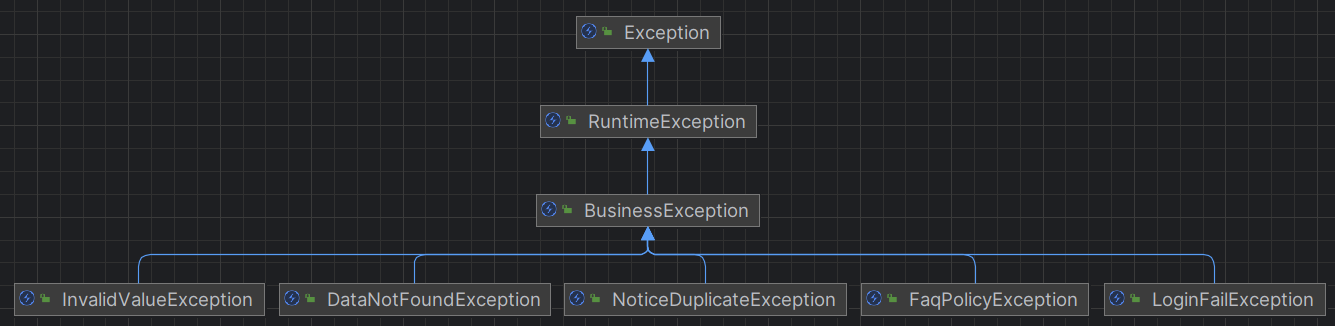
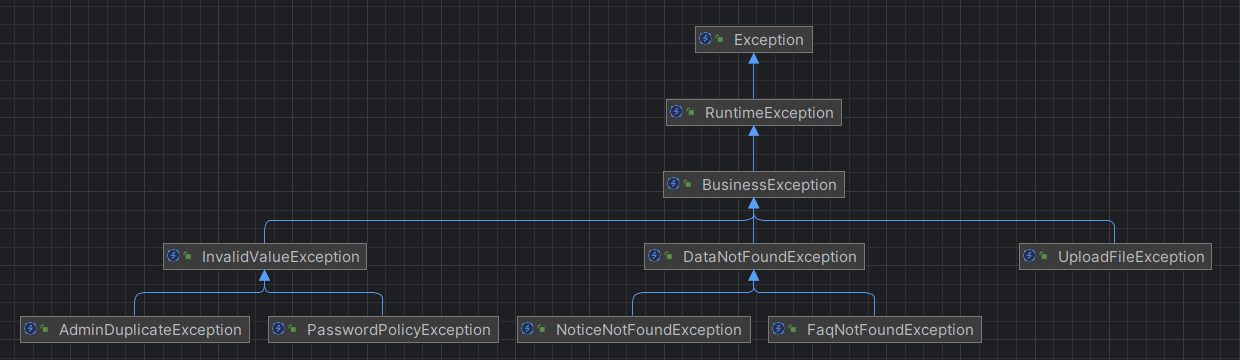
refactor: 예외 처리 핸들러 api/view 분리, 예외 클래스 구조 개선

diff --git a/src/main/resources/static/js/customer/notice-editForm.js b/src/main/resources/static/js/customer/notice-editForm.js
@@ -67,7 +67,7 @@ const NoticeEditFormModule = (function() {
         processData: false,
         success: function(response) {
           alert(response.message || '정상적으로 처리되었습니다.')
-          $('button[data-notice-no=' + noticeNo + ']').remove()
+          $('button[data-notice-file-no=' + noticeFileNo + ']').remove()
         },
         error: function(response) {
           if (response.responseJSON === undefined ||

diff --git a/src/main/java/com/example/demo/admin/global/util/FileUtil.java b/src/main/java/com/example/demo/admin/global/util/FileUtil.java
@@ -2,7 +2,7 @@ package com.example.demo.admin.global.util;
 
 import com.example.demo.admin.global.common.UploadFile;
 import com.example.demo.admin.global.common.define.FileUploadType;
-import com.example.demo.admin.global.error.exception.FileUploadException;
+import com.example.demo.admin.global.error.exception.UploadFileException;
 import org.springframework.web.multipart.MultipartFile;
 
 import java.io.*;
@@ -15,7 +15,7 @@ public class FileUtil {
      */
     public static List<UploadFile> uploadFiles(List<MultipartFile> uploadFiles, FileUploadType fileUploadType) {
         if (isEmpty(uploadFiles)) {
-            throw new FileUploadException("파일이 존재하지 않습니다.");
+            throw new UploadFileException("파일이 존재하지 않습니다.");
         }
 
         List<UploadFile> result = new ArrayList<>();
@@ -28,7 +28,7 @@ public class FileUtil {
                 createDirectory(fileUploadType.getFileDir());
                 uploadFile.transferTo(new File(storePath));
             } catch (IOException | IllegalStateException e) {
-                throw new FileUploadException(e);
+                throw new UploadFileException(e);
             }
 
             result.add(new UploadFile(originalFilename, storeFileName, storePath));
@@ -59,11 +59,11 @@ public class FileUtil {
             totalFileSize += uploadFile.getSize();
         }
         if (totalFileSize > fileUploadType.getMaxSize()) {
-            throw new FileUploadException("첨부 가능한 파일 용량을 초과했습니다.");
+            throw new UploadFileException("첨부 가능한 파일 용량을 초과했습니다.");
         }
         totalFileCount = uploadFiles.size();
         if (totalFileCount > fileUploadType.getMaxCount()) {
-            throw new FileUploadException("첨부 가능한 파일 개수를 초과했습니다.");
+            throw new UploadFileException("첨부 가능한 파일 개수를 초과했습니다.");
         }
     }
 
@@ -82,11 +82,11 @@ public class FileUtil {
                 totalFileSize += new File(fileUploadType.getStorePath(orgUploadedFile)).length();
             }
             if (totalFileSize > fileUploadType.getMaxSize()) {
-                throw new FileUploadException("첨부 가능한 파일 용량을 초과했습니다.");
+                throw new UploadFileException("첨부 가능한 파일 용량을 초과했습니다.");
             }
             totalFileCount = orgUploadedFiles.size();
             if (totalFileCount > fileUploadType.getMaxCount()) {
-                throw new FileUploadException("첨부 가능한 파일 개수를 초과했습니다.");
+                throw new UploadFileException("첨부 가능한 파일 개수를 초과했습니다.");
             }
         }
 
@@ -98,11 +98,11 @@ public class FileUtil {
             totalFileSize += uploadFile.getSize();
         }
         if (totalFileSize > fileUploadType.getMaxSize()) {
-            throw new FileUploadException("첨부 가능한 파일 용량을 초과했습니다.");
+            throw new UploadFileException("첨부 가능한 파일 용량을 초과했습니다.");
         }
         totalFileCount += uploadFiles.size();
         if (totalFileCount > fileUploadType.getMaxCount()) {
-            throw new FileUploadException("첨부 가능한 파일 개수를 초과했습니다.");
+            throw new UploadFileException("첨부 가능한 파일 개수를 초과했습니다.");
         }
     }
 
@@ -116,7 +116,7 @@ public class FileUtil {
                 return;
             }
         }
-        throw new FileUploadException("첨부 가능한 파일 확장자가 아닙니다.");
+        throw new UploadFileException("첨부 가능한 파일 확장자가 아닙니다.");
     }
 
     /**

diff --git a/src/main/java/com/example/demo/admin/global/error/ViewExceptionHandler.java b/src/main/java/com/example/demo/admin/global/error/ViewExceptionHandler.java
@@ -1,0 +1,35 @@
+package com.example.demo.admin.global.error;
+
+import com.example.demo.admin.global.error.exception.BusinessException;
+import lombok.extern.slf4j.Slf4j;
+import org.springframework.stereotype.Controller;
+import org.springframework.web.bind.annotation.ControllerAdvice;
+import org.springframework.web.bind.annotation.ExceptionHandler;
+import org.springframework.web.servlet.ModelAndView;
+
+/**
+ * HTML 화면 제공 처리 과정에서의 예외는 ViewExceptionHandler(@ControllerAdvice)에서 응답 처리한다.
+ * 단, ViewExceptionHandler 에서 다루지 않는 예외의 경우는 스프링 부트 기본 오류 처리 매커니즘(BasicErrorController)를 따른다.
+ *
+ * [참고]
+ * - ViewExceptionHandler 에서는 내부 비즈니스 예외 발생(BusinessException)의 경우에 한해서 정상적으로 응답 처리되도록 한다. 응답 처리 과정은 다음과 같다.
+ *  ㄴ 응답 처리: 내부 redirct 페이지로 이동하여 예외 메시지를 alert으로 출력 후, 메인 페이지로 이동한다.
+ */
+@Slf4j
+@ControllerAdvice(annotations = Controller.class)
+public class ViewExceptionHandler {
+
+    @ExceptionHandler(BusinessException.class)
+    protected ModelAndView handleBusinessException(BusinessException e) {
+        log.info("handleBusinessException", e);
+        return errorHtml(e.getMessage());
+    }
+
+    private ModelAndView errorHtml(String msg) {
+        ModelAndView mav = new ModelAndView();
+        mav.addObject("msg", msg);
+        mav.addObject("url", "/");
+        mav.setViewName("/common/redirect");
+        return mav;
+    }
+}

diff --git a/src/main/java/com/example/demo/admin/domain/customer/controller/NoticeController.java b/src/main/java/com/example/demo/admin/domain/customer/controller/NoticeController.java
@@ -12,7 +12,7 @@ import com.example.demo.admin.domain.customer.dto.NoticeSearchDto;
 import com.example.demo.admin.domain.customer.service.NoticeService;
 import com.example.demo.admin.domain.customer.validator.NoticeSearchValidator;
 import com.example.demo.admin.global.common.define.FileUploadType;
-import com.example.demo.admin.global.error.exception.FileUploadException;
+import com.example.demo.admin.global.error.exception.UploadFileException;
 import com.example.demo.admin.global.util.ErrorUtil;
 import com.example.demo.admin.global.common.PaginationDto;
 import lombok.RequiredArgsConstructor;
@@ -99,7 +99,7 @@ public class NoticeController {
             redirectAttributes.addAttribute("noticeNo", notice.getNoticeNo());
         } catch (NoticeDuplicateException ex) {
             bindingResult.addError(new FieldError("noticeAddDto", "title", noticeAddDto.getTitle(), false, null, null, ex.getMessage()));
-        } catch (FileUploadException ex) {
+        } catch (UploadFileException ex) {
             bindingResult.addError(new FieldError("noticeAddDto", "uploadFiles", ex.getMessage()));
         }
 
@@ -132,7 +132,7 @@ public class NoticeController {
             noticeService.update(noticeNo, noticeEditDto);
         } catch (NoticeDuplicateException ex) {
             bindingResult.addError(new FieldError("noticeEditDto", "title", noticeEditDto.getTitle(), false, null, null, ex.getMessage()));
-        } catch (FileUploadException ex) {
+        } catch (UploadFileException ex) {
             bindingResult.addError(new FieldError("noticeEditDto", "uploadFiles", ex.getMessage()));
         }
 

diff --git a/src/main/java/com/example/demo/admin/domain/customer/service/NoticeFileService.java b/src/main/java/com/example/demo/admin/domain/customer/service/NoticeFileService.java
@@ -1,11 +1,10 @@
 package com.example.demo.admin.domain.customer.service;
 
 import com.example.demo.admin.domain.customer.domain.NoticeFile;
-import com.example.demo.admin.domain.customer.exception.NoticeFileException;
+import com.example.demo.admin.domain.customer.exception.NoticeFileNotFoundException;
 import com.example.demo.admin.domain.customer.repository.NoticeFileRepository;
 import com.example.demo.admin.global.common.UploadFile;
 import com.example.demo.admin.global.common.define.FileUploadType;
-import com.example.demo.admin.global.error.exception.DataNotFoundException;
 import com.example.demo.admin.global.util.CommonUtil;
 import com.example.demo.admin.global.util.FileUtil;
 import lombok.RequiredArgsConstructor;
@@ -30,7 +29,7 @@ public class NoticeFileService {
         return findItems(noticeNo).stream()
                 .filter(s -> s.getNoticeFileNo().equals(noticeFileNo))
                 .findFirst()
-                .orElseThrow(DataNotFoundException::new);
+                .orElseThrow(NoticeFileNotFoundException::new);
     }
 
     public void saveFiles(Integer noticeNo, List<MultipartFile> uploadFiles) {
@@ -65,7 +64,7 @@ public class NoticeFileService {
             if (!CommonUtil.isEmpty(uploadedFiles)) {
                 uploadedFiles.forEach(v -> FileUtil.deleteFile(v.getStorePath()));
             }
-            throw new NoticeFileException(e);
+            throw e;
         }
     }
 

diff --git a/src/test/java/com/example/demo/admin/domain/customer/service/FaqServiceTest.java b/src/test/java/com/example/demo/admin/domain/customer/service/FaqServiceTest.java
@@ -4,9 +4,9 @@ import com.example.demo.admin.domain.customer.define.FaqType;
 import com.example.demo.admin.domain.customer.domain.Faq;
 import com.example.demo.admin.domain.customer.dto.FaqAddDto;
 import com.example.demo.admin.domain.customer.dto.FaqEditDto;
+import com.example.demo.admin.domain.customer.exception.FaqNotFoundException;
 import com.example.demo.admin.domain.customer.exception.FaqPolicyException;
 import com.example.demo.admin.global.common.define.Yn;
-import com.example.demo.admin.global.error.exception.DataNotFoundException;
 import org.assertj.core.api.Assertions;
 import org.junit.jupiter.api.BeforeEach;
 import org.junit.jupiter.api.DisplayName;
@@ -69,7 +69,7 @@ class FaqServiceTest {
 
         // when & then
         Assertions.assertThatThrownBy(() -> faqService.findById(faqNo))
-                .isInstanceOf(DataNotFoundException.class);
+                .isInstanceOf(FaqNotFoundException.class);
     }
 
     @Test
@@ -138,6 +138,6 @@ class FaqServiceTest {
 
         // then
         Assertions.assertThatThrownBy(() -> faqService.findById(faq.getFaqNo()))
-                .isInstanceOf(DataNotFoundException.class);
+                .isInstanceOf(FaqNotFoundException.class);
     }
 }

diff --git a/src/test/java/com/example/demo/admin/domain/customer/service/NoticeServiceTest.java b/src/test/java/com/example/demo/admin/domain/customer/service/NoticeServiceTest.java
@@ -5,7 +5,7 @@ import com.example.demo.admin.domain.customer.domain.Notice;
 import com.example.demo.admin.domain.customer.dto.NoticeAddDto;
 import com.example.demo.admin.domain.customer.dto.NoticeEditDto;
 import com.example.demo.admin.domain.customer.exception.NoticeDuplicateException;
-import com.example.demo.admin.global.error.exception.DataNotFoundException;
+import com.example.demo.admin.domain.customer.exception.NoticeNotFoundException;
 import org.assertj.core.api.Assertions;
 import org.junit.jupiter.api.BeforeEach;
 import org.junit.jupiter.api.DisplayName;
@@ -65,7 +65,7 @@ class NoticeServiceTest {
 
         // when & then
         Assertions.assertThatThrownBy(() -> noticeService.findById(noticeNo))
-                .isInstanceOf(DataNotFoundException.class);
+                .isInstanceOf(NoticeNotFoundException.class);
     }
 
     @Test
@@ -128,6 +128,6 @@ class NoticeServiceTest {
 
         // then
         Assertions.assertThatThrownBy(() -> noticeService.findById(notice.getNoticeNo()))
-                .isInstanceOf(DataNotFoundException.class);
+                .isInstanceOf(NoticeNotFoundException.class);
     }
 }

diff --git a/src/main/java/com/example/demo/admin/domain/customer/service/FaqService.java b/src/main/java/com/example/demo/admin/domain/customer/service/FaqService.java
@@ -5,10 +5,10 @@ import com.example.demo.admin.domain.customer.domain.Faq;
 import com.example.demo.admin.domain.customer.dto.FaqAddDto;
 import com.example.demo.admin.domain.customer.dto.FaqEditDto;
 import com.example.demo.admin.domain.customer.dto.FaqSearchDto;
+import com.example.demo.admin.domain.customer.exception.FaqNotFoundException;
 import com.example.demo.admin.domain.customer.exception.FaqPolicyException;
 import com.example.demo.admin.domain.customer.repository.FaqRepository;
 import com.example.demo.admin.global.common.define.Yn;
-import com.example.demo.admin.global.error.exception.DataNotFoundException;
 import com.example.demo.admin.global.common.PaginationDto;
 import lombok.RequiredArgsConstructor;
 import org.springframework.stereotype.Service;
@@ -37,7 +37,7 @@ public class FaqService {
     }
 
     public Faq findById(Integer faqNo) {
-        return faqRepository.findById(faqNo).orElseThrow(DataNotFoundException::new);
+        return faqRepository.findById(faqNo).orElseThrow(FaqNotFoundException::new);
     }
 
     public Faq save(FaqAddDto faqAddDto) {

diff --git a/src/main/java/com/example/demo/admin/domain/customer/service/NoticeService.java b/src/main/java/com/example/demo/admin/domain/customer/service/NoticeService.java
@@ -4,8 +4,8 @@ import com.example.demo.admin.domain.customer.dto.NoticeAddDto;
 import com.example.demo.admin.domain.customer.dto.NoticeEditDto;
 import com.example.demo.admin.domain.customer.dto.NoticeSearchDto;
 import com.example.demo.admin.domain.customer.exception.NoticeDuplicateException;
+import com.example.demo.admin.domain.customer.exception.NoticeNotFoundException;
 import com.example.demo.admin.domain.customer.repository.NoticeRepository;
-import com.example.demo.admin.global.error.exception.DataNotFoundException;
 import com.example.demo.admin.global.common.PaginationDto;
 import lombok.RequiredArgsConstructor;
 import lombok.extern.slf4j.Slf4j;
@@ -36,7 +36,7 @@ public class NoticeService {
     }
 
     public Notice findById(Integer noticeNo) {
-        return noticeRepository.findById(noticeNo).orElseThrow(DataNotFoundException::new);
+        return noticeRepository.findById(noticeNo).orElseThrow(NoticeNotFoundException::new);
     }
 
     @Transactional

diff --git a/src/main/java/com/example/demo/admin/domain/admin/service/AdminService.java b/src/main/java/com/example/demo/admin/domain/admin/service/AdminService.java
@@ -4,7 +4,7 @@ import com.example.demo.admin.domain.admin.domain.Admin;
 import com.example.demo.admin.domain.admin.dto.AdminAddDto;
 import com.example.demo.admin.domain.admin.dto.AdminEditDto;
 import com.example.demo.admin.domain.admin.dto.AdminSearchDto;
-import com.example.demo.admin.domain.admin.exception.AdminAlreadyExistException;
+import com.example.demo.admin.domain.admin.exception.AdminDuplicateException;
 import com.example.demo.admin.domain.admin.exception.AdminNotFoundException;
 import com.example.demo.admin.domain.admin.exception.PasswordPolicyException;
 import com.example.demo.admin.domain.admin.repository.AdminRepository;
@@ -94,7 +94,7 @@ public class AdminService {
 
     private void checkAlreadyExistId(String adminId) {
         adminRepository.findByAdminId(adminId).ifPresent(m -> {
-            throw new AdminAlreadyExistException();
+            throw new AdminDuplicateException();
         });
     }
 }

diff --git a/src/main/java/com/example/demo/admin/global/error/exception/UploadFileException.java b/src/main/java/com/example/demo/admin/global/error/exception/UploadFileException.java
@@ -1,21 +1,21 @@
 package com.example.demo.admin.global.error.exception;
 
-public class FileUploadException extends BusinessException {
+public class UploadFileException extends BusinessException {
     private static final String DEFAULT_MESSAGE = "파일 업로드 처리에 실패했습니다.";
 
-    public FileUploadException() {
+    public UploadFileException() {
         super(DEFAULT_MESSAGE);
     }
 
-    public FileUploadException(String message) {
+    public UploadFileException(String message) {
         super(message);
     }
 
-    public FileUploadException(Throwable cause) {
+    public UploadFileException(Throwable cause) {
         super(DEFAULT_MESSAGE, cause);
     }
 
-    public FileUploadException(String message, Throwable cause) {
+    public UploadFileException(String message, Throwable cause) {
         super(message, cause);
     }
 }

diff --git a/src/main/java/com/example/demo/admin/global/error/ApiExceptionHandler.java b/src/main/java/com/example/demo/admin/global/error/ApiExceptionHandler.java
@@ -13,12 +13,11 @@ import org.springframework.web.bind.annotation.RestControllerAdvice;
 import org.springframework.web.method.annotation.MethodArgumentTypeMismatchException;
 
 /**
- * API 예외의 경우 GlobalExceptionHandler(@RestControllerAdvice)에서 공통으로 응답 처리하고,
- * 그 외의 경우(화면 처리)는 스프링 부트 기본 오류 처리 매커니즘(BasicErrorController)를 따른다.
+ * API 예외의 경우 ApiExceptionHandler(@RestControllerAdvice)에서 공통으로 응답 처리한다.
  */
 @Slf4j
 @RestControllerAdvice(annotations = RestController.class)
-public class GlobalExceptionHandler {
+public class ApiExceptionHandler {
 
     @ExceptionHandler(MethodArgumentNotValidException.class)
     protected ResponseEntity<ErrorResponse> handleMethodArgumentNotValidException(MethodArgumentNotValidException e) {
